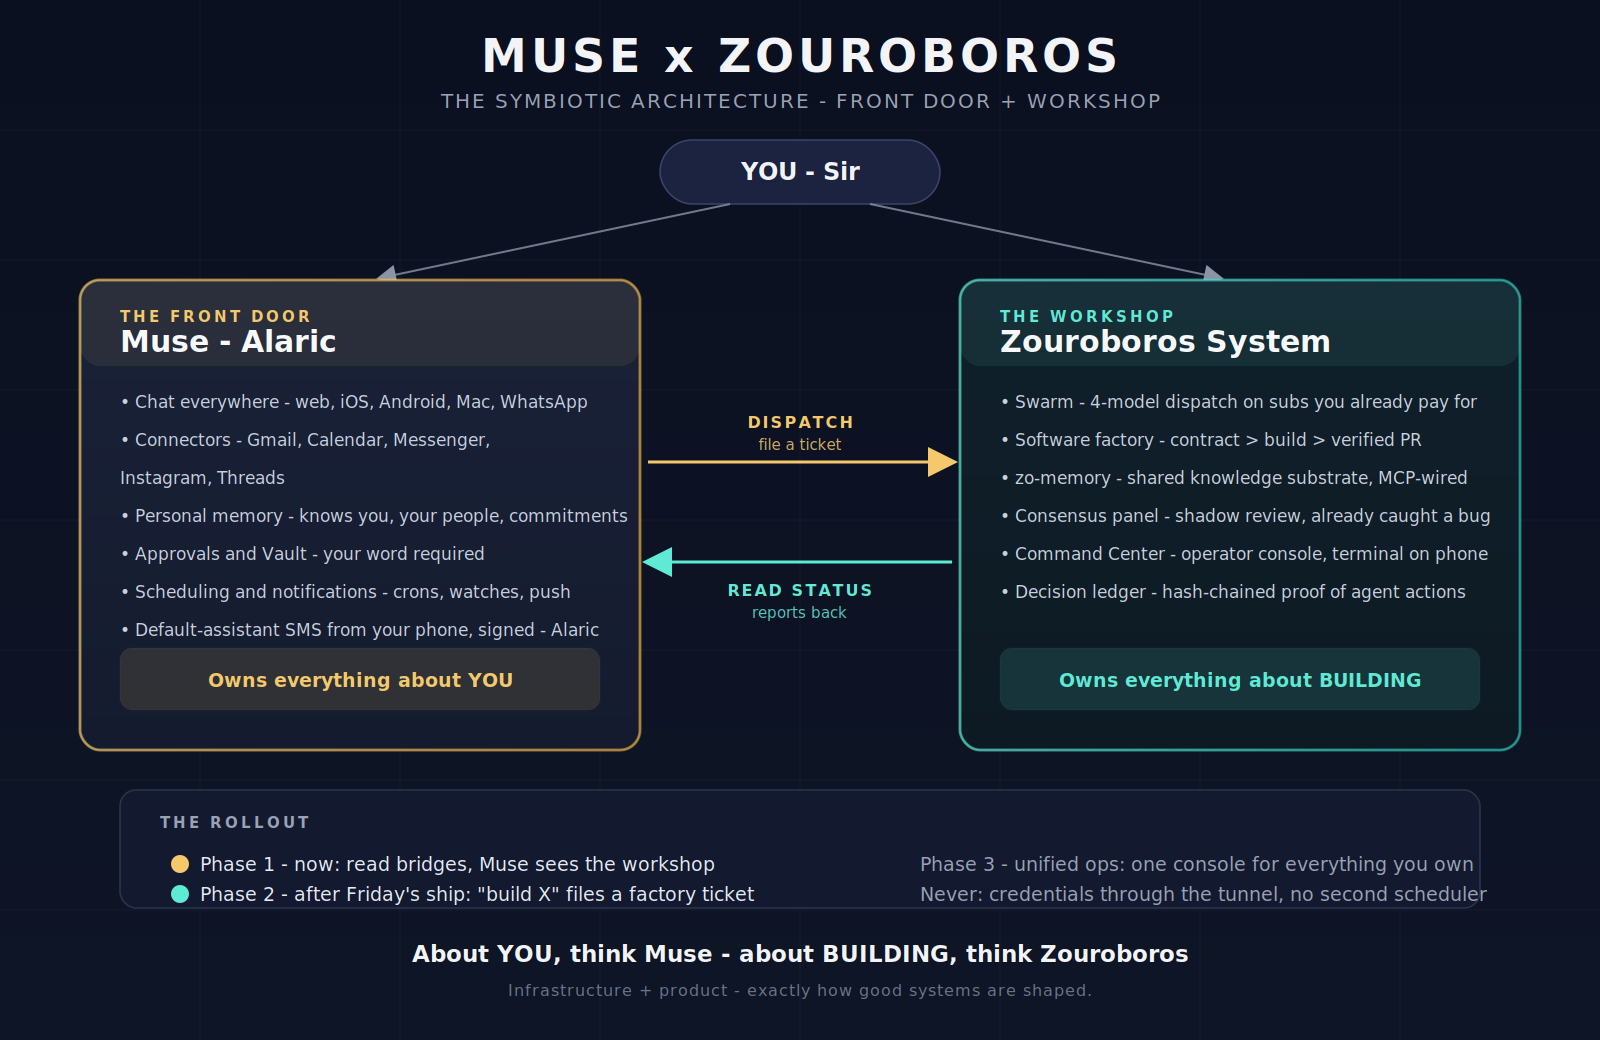
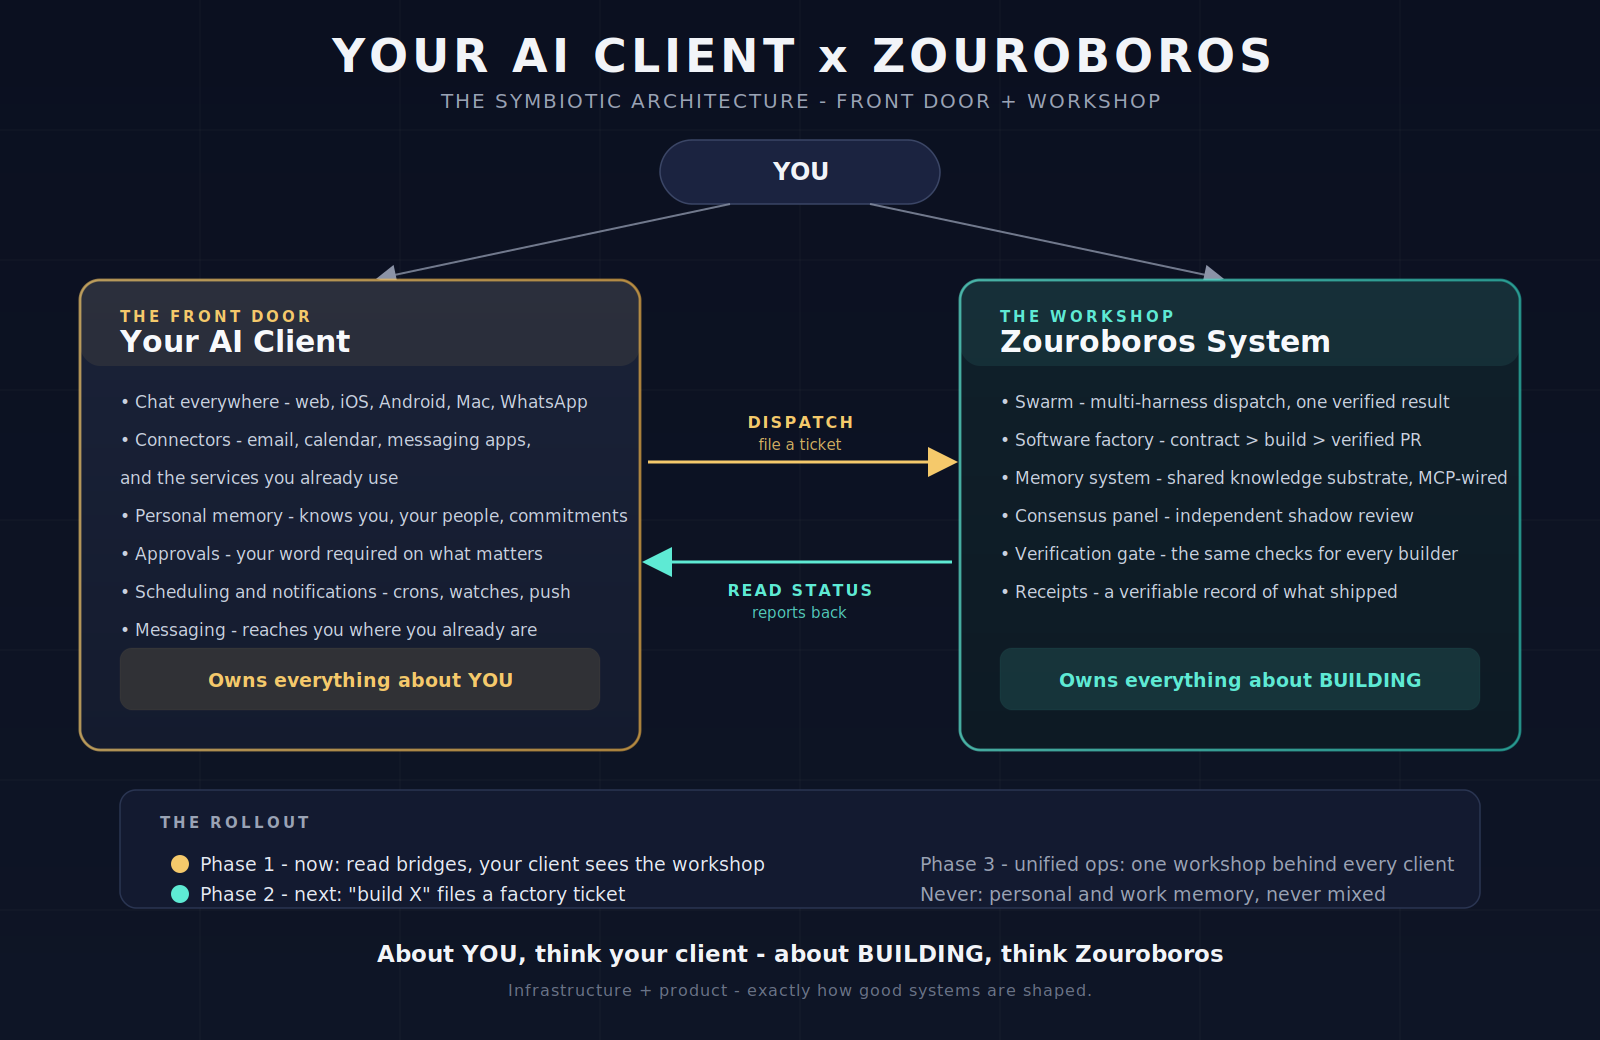
Make the docs images client-agnostic
Replace the Muse-branded hero, social preview, architecture diagram and
infographic with Zouroboros Workshop versions framed around 'your AI
client'; rewrite fusion-diagram.svg in client-neutral terms (no personal
front door, no operator-only components) and re-render its PNG from the
SVG; rename hero-muse-workshop.png to hero-zouroboros-workshop.png and
update the README and architecture doc references.

diff --git a/docs/architecture.md b/docs/architecture.md
@@ -163,13 +163,12 @@ adoption:
 
 ## Visual reference
 
-`docs/assets/fusion-diagram.svg` is an older vector diagram of this
+`docs/assets/fusion-diagram.svg` is a vector diagram of this
 architecture (front door, workshop, dispatch and read-status bridges,
-rollout phases), and `docs/assets/fusion-diagram.png` is an older, separate
-drawing — not a render of the SVG. Both predate this edition's
-client-neutral framing and are due for a redraw. Read them as history, not
-as a component list: their workshop column shows operator-side components
-(a console and an action ledger) that are not part of this repository.
+rollout phases), and `docs/assets/fusion-diagram.png` is a render of the
+same SVG. Both follow this edition's client-neutral framing: the front
+door is your AI client, whichever one you use, and the workshop column
+lists only components that are part of this repository.
 
 ## Where the code lives
 

diff --git a/README.md b/README.md
@@ -4,7 +4,7 @@
 [![Version](https://img.shields.io/badge/version-0.1.5-green.svg)](package.json)
 [![MCP](https://img.shields.io/badge/connects%20over-MCP-0668E1.svg)](docs/connect.md)
 
-![Zouroboros — the workshop behind your personal AI.](docs/assets/hero-muse-workshop.png)
+![Zouroboros Workshop — the workshop behind your AI client.](docs/assets/hero-zouroboros-workshop.png)
 
 **The workshop behind your personal AI.**
 
